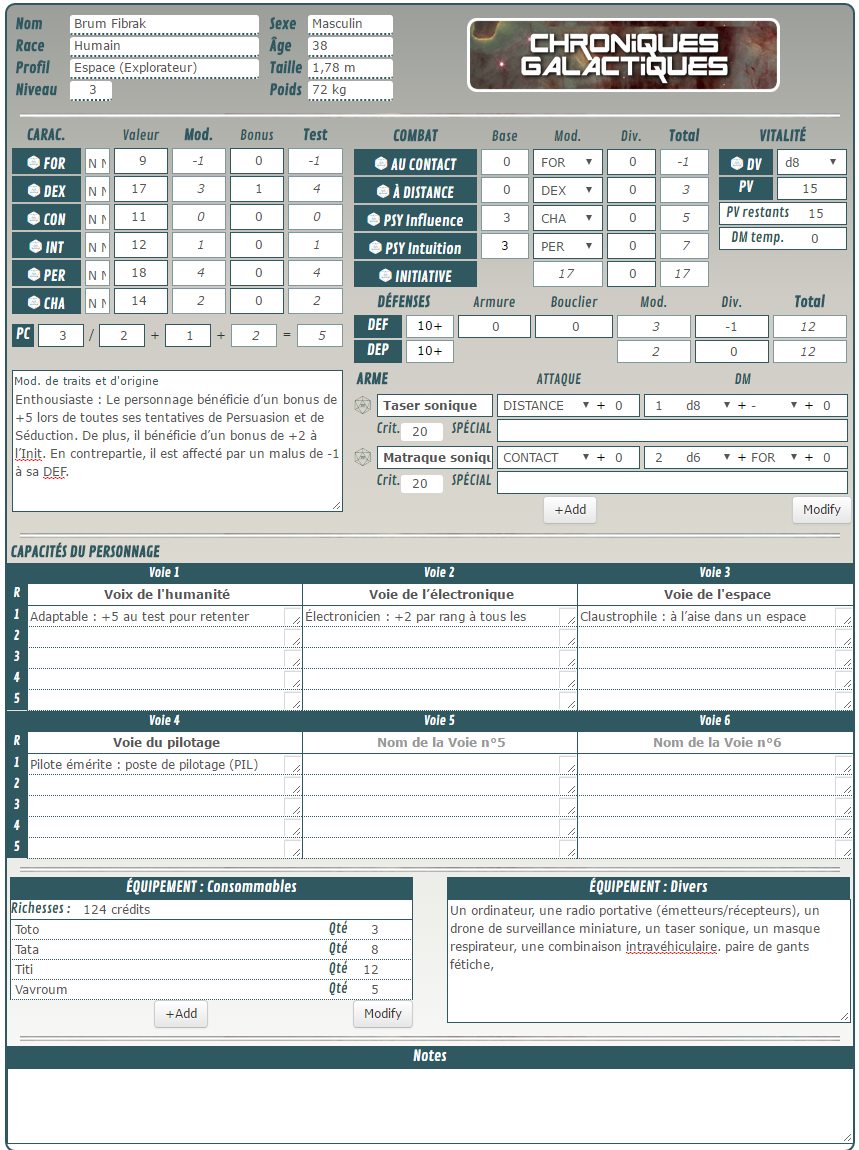
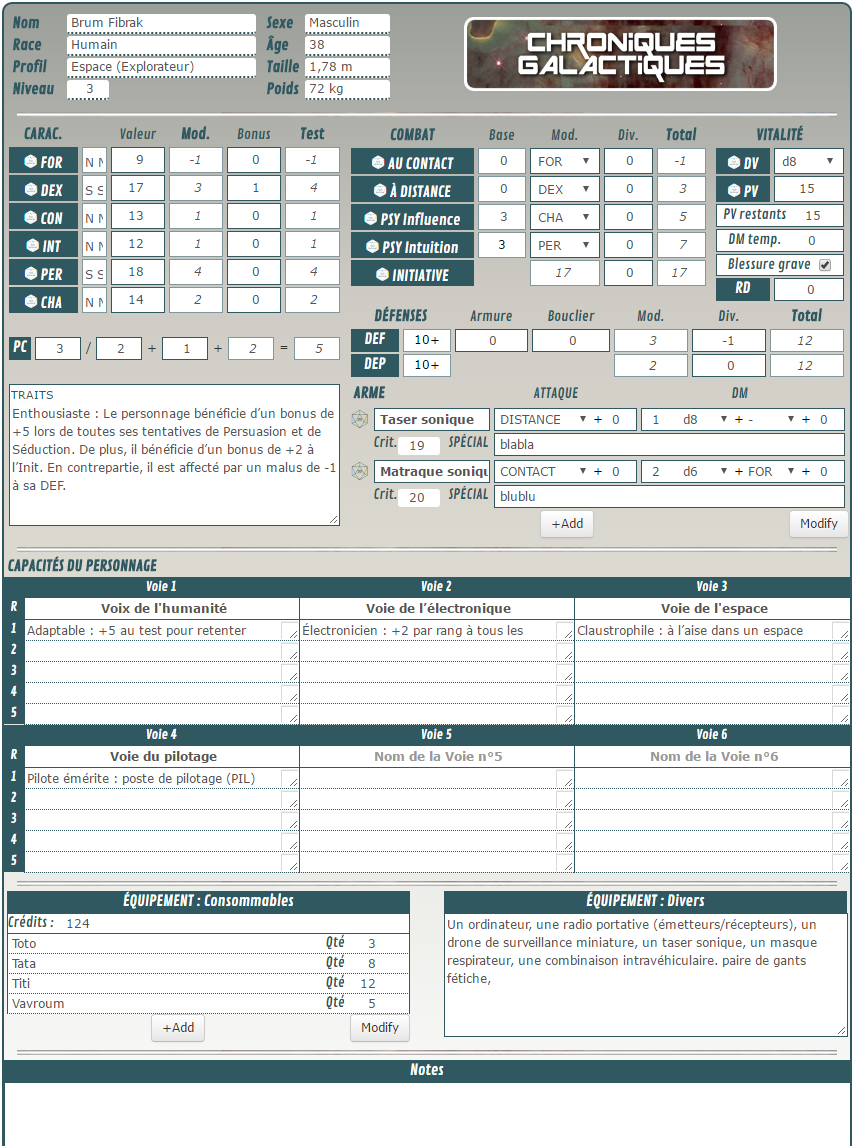
COG v1.0

diff --git a/ChroniquesGalactiques/cog.htm b/ChroniquesGalactiques/cog.htm
@@ -19,7 +19,7 @@
                 </table>
             </td>
             <td style="vertical-align: middle;text-align: center;">
-                <img style="width:70%;"  title="Version 1.0 - 09/07/2016" src="https://raw.githubusercontent.com/NathaTerrien/roll20-wip/master/ChroniquesGalactiques/cog_logo.png"/>
+                <img style="width:70%;"  title="Version 1.0 - 11/07/2016" src="https://raw.githubusercontent.com/NathaTerrien/roll20-wip/master/ChroniquesGalactiques/cog_logo.png"/>
             </td>
             </tr>
         </table>
@@ -117,7 +117,7 @@
                             <td class="sheet-boxinputlight"><input type="number" name="attr_CHA_TEST" value="@{CHA}+@{CHA_BONUS}" disabled /></td>
                         </tr>
                     </table> <!-- FIN Caracs -->
-                    <table class="sheet-tabsep" style="margin-top: 6px;"> <!-- Chance -->
+                    <table class="sheet-tabsep" style="margin-top: 20px;"> <!-- Chance -->
                         <tr>
                             <td class="sheet-boxtitre" title="Points de Chance">PC</td>
                             <td class="sheet-boxinput"><input type="number" name="attr_PC" value="0" title="Points de Chance utilisés ou courants" /></td>
@@ -236,7 +236,7 @@
                                         </td>
                                     </tr>
                                     <tr>
-                                        <td class="sheet-boxtitre">PV</td>
+                                        <td class="sheet-boxtitre"><button class="sheet-boxtitre" type="roll" name="JET_RECUP" title="Jet de Récupération" value="&{template:co1} {{name=Récupération}} {{subtags=Vitalit&eacute;}} {{RECUP=[[1d@{DV}+@{NIVEAU}+[[@{CON}]]]]}}"> PV</button></td>
                                         <td class="sheet-boxinput"><input type="number" name="attr_PV_max" title="Points de Vie maximum"  value="0" /></td>
                                     </tr>
                                     <tr>
@@ -250,6 +250,16 @@
                                             <span class="textbase">DM temp.</span>&nbsp;
                                             <input type="number" name="attr_DMTEMP" title="Dommages Temporaires"  value="0" />
                                         </td>
+                                    </tr>
+                                    <tr>
+                                        <td  class="sheet-boxinput" COLSPAN="2">
+                                            <span class="textbase">Blessure grave</span>&nbsp;
+                                            <input type="checkbox" name="attr_BLESSURE" title="Gravement blessé" value="0" />
+                                        </td>
+                                    </tr>
+                                    <tr>
+                                        <td class="sheet-boxtitre" title="Réduction de dégâts">RD</td>
+                                        <td class="sheet-boxinput"><input type="number" name="attr_RD" title="Réduction de dégâts" value="0" /></td>
                                     </tr>
                                 </table>
                             </td> <!-- FIN PV -->
@@ -294,7 +304,7 @@
                     <table class="sheet-tabsep">
                         <tr>
                             <td class="sheet-boxinputleft">
-                                <span class="sheet-textbasesmall">Mod. de traits et d'origine</span><br/>
+                                <span class="sheet-textbasesmall">TRAITS</span><br/>
                                 <textarea name="attr_TRAITS" style="height:10em;"></textarea>
                             </td>
                         </tr>
@@ -458,7 +468,7 @@
             <div class="sheet-col">
                 <div class="sheet-boxtitre">&Eacute;QUIPEMENT : Consommables</div>
                 <div class="sheet-boxinputleft">
-                    <span class="textbase">Richesses&nbsp;:</span>&nbsp;
+                    <span class="textbase">Crédits&nbsp;:</span>&nbsp;
                     <input type="text" style="width:320px;" name="attr_RICHESSE" placeholder="Rien ? C'est la pauvret&eacute; !" />
                 </div>
                 </table>
@@ -503,6 +513,12 @@
                 <td>{{DV}}</td>
             </tr>
         {{/DV}}
+        {{#RECUP}}
+            <tr>
+                <td class="tcat">PV récupérés</td>
+                <td>{{RECUP}}</td>
+            </tr>
+        {{/RECUP}}
         {{#carac}}
             <tr>
                 <td class="tcat">Jet </td>
@@ -525,6 +541,7 @@
                     <td>{{attaque}}</td>
                 </tr>
             {{#degats}}
+                <tr><td colspan="2">&nbsp;</td></tr>
                 <tr>
                     <td class="tcat">Dégâts </td>
                     <td>

diff --git a/ChroniquesGalactiques/cog.css b/ChroniquesGalactiques/cog.css
@@ -243,9 +243,9 @@ textarea.sheet-voixdesc{
     color: #2F5860;
     margin: 0px;
     padding: 0px 5px 0px 5px;
-    font-size: 13px;
+    font-size: 16px;
     text-align: left;
-    font-family: 'Verdana';
+    font-family: 'Contrail One';
     font-variant: small-caps;
     font-weight: bold;
     white-space: nowrap;
@@ -279,26 +279,34 @@ textarea.sheet-voixdesc{
     border-width: 1px;
     border-color: #7F989D;
     border-style: solid;
-    border-radius: 50%;
+    border-radius: 25%;
+    font-family: 'Contrail One';
+    font-size: 18px;
 }
 .sheet-rolltemplate-co1 .inlinerollresult.fullcrit {
     color: #3FB315;
     border-width: 2px;
     border-color: #3FB315;
     border-style: solid;
-    border-radius: 50%;
+    border-radius: 25%;
+    font-family: 'Contrail One';
+    font-size: 18px;
 }
 .sheet-rolltemplate-co1 .inlinerollresult.fullfail {
     color: #B31515;
     border-width: 2px;
     border-color: #B31515;
     border-style: solid;
-    border-radius: 50%;
+    border-radius: 25%;
+    font-family: 'Contrail One';
+    font-size: 18px;
 }
 .sheet-rolltemplate-co1 .inlinerollresult.importantroll {
     color: #2F5860;
     border-width: 2px;
     border-color: #2F5860;
     border-style: solid;
-    border-radius: 50%;
+    border-radius: 25%;
+    font-family: 'Contrail One';
+    font-size: 18px;
 }

diff --git a/ChroniquesGalactiques/ReadMe.md b/ChroniquesGalactiques/ReadMe.md
@@ -1,8 +1,8 @@
-# Chroniques Oubli&eacute;es Galactiques
+# Chroniques Galactiques
 
 _A french Scifi RPG based on the D20 system / OGL 3.5._
 
-Chroniques Oubli&eacute;es Galactiques est un jeu de r&ocirc;le futuriste complet bas&eacute; sur le syst&egrave;me d20/OGL 3.5.
+Chroniques Galactiques est un jeu de r&ocirc;le futuriste complet bas&eacute; sur le syst&egrave;me d20/OGL 3.5.
 
 Cette feuilles de personnage inclue quelques jets et r&egrave;gles optionnelles.
 
@@ -13,6 +13,6 @@ Le jeu complet est paru dans le magazine [Casus Belli](http://www.black-book-edi
 
 # Notes de version
 
-##v1.0 (2016-07-09)
+##v1.0 (2016-07-11)
 
 Création de la feuille.
